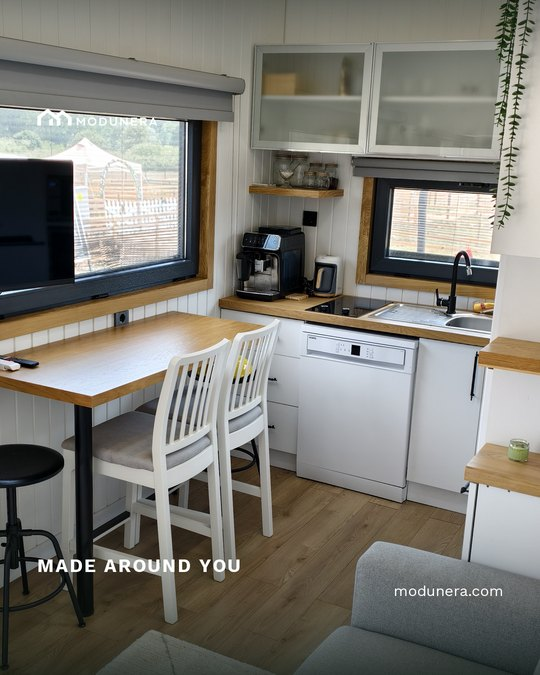
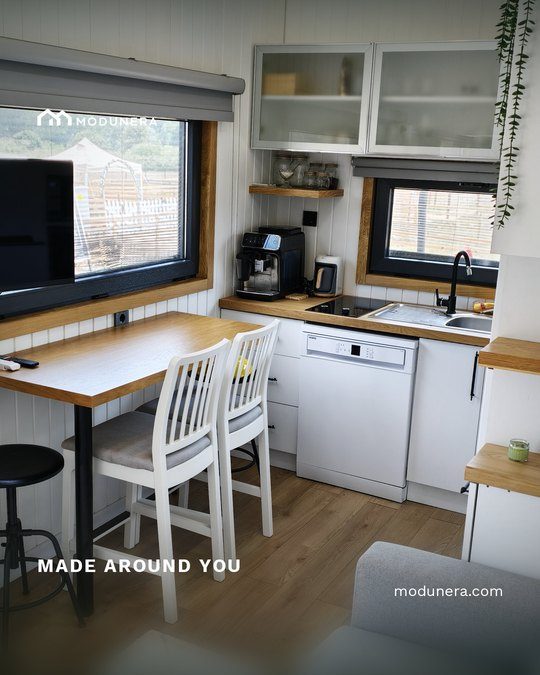
social: cull the weak frames, and one grade across the whole grid
Three photographs were removed after seeing them at grid scale. Copies only; the
originals in the shared folder are untouched.

  IMG_20250618_094223 — orange scaffolding dominated the frame and the house was
  the smallest thing in it. Replaced by 20231214_121220, a module in the workshop
  with its timber stacked at the foot.

  IMG_20260206_161331 — a grey unfinished terrace that reads as a building site
  rather than a product. Replaced by 20240227_113020, the loft stair and living
  space, which is what "space to breathe" actually means in a house this size.

  20231207_103831 — dim workshop, awkward pose, cluttered background. Replaced by
  IMG_20250913_183727, which earns its caption literally: a red steel frame in
  the foreground and a finished house behind it, from frame to finish in one
  frame.

Three further frames are held in 00-candidates as alternates rather than deleted.
They are good photographs this particular twelve had no room for.

Then one grade across all of them, because twelve photographs taken across three
years on two cameras do not read as one brand on their own:

  Grey-world white balance damped to 60%. Phone auto-white-balance drifts green
  under a workshop roof and blue in open shade, and that drift is what makes a
  feed look like snapshots. Damping keeps the warmth of evening light rather than
  neutralising it away.

  A soft S-curve anchored at both ends, so there is shadow structure without
  anything clipping.
[…]

diff --git a/tools/social/build_instagram_grid.py b/tools/social/build_instagram_grid.py
@@ -34,7 +34,9 @@ import json
 import sys
 from pathlib import Path
 
-from PIL import Image, ImageDraw, ImageFont
+import math
+
+from PIL import Image, ImageDraw, ImageEnhance, ImageFilter, ImageFont, ImageStat
 
 ROOT = Path(__file__).resolve().parents[2]
 SELECTED = ROOT / "social/instagram/01-selected"
@@ -101,6 +103,95 @@ def strip_camera_watermark(im: Image.Image) -> tuple[Image.Image, int]:
     if band < h * 0.01:
         return im, 0
     return im.crop((0, 0, w, h - band)), band
+
+
+
+def _curve(lut_fn) -> list[int]:
+    return [max(0, min(255, round(lut_fn(v / 255) * 255))) for v in range(256)]
+
+
+def grade(im: Image.Image, *, warmth: float = 1.0, lift: float = 0.0,
+          contrast: float = 1.0, saturation: float = 1.0) -> Image.Image:
+    """One grade across the whole grid, so twelve phone photographs taken in three
+    years on two cameras read as one brand rather than as an album.
+
+    Four moves, all gentle, none of them a filter:
+
+      1. Grey-world white balance, damped. Phone auto-white-balance drifts green
+         under a workshop roof and blue in open shade; the drift is what makes a
+         feed look like snapshots. Correction is pulled only 60% of the way to
+         neutral so the warmth of evening light survives.
+      2. A soft S-curve. Adds the depth a flat phone JPEG lacks. The curve is
+         anchored at both ends, so nothing clips to pure black or pure white.
+      3. Saturation pulled slightly down. Phone JPEGs oversaturate greens; the
+         palette this brand uses is muted, and the photographs have to sit next to
+         moss and sage without shouting.
+      4. A wide, shallow vignette. Two stops at the extreme corner, nothing
+         anywhere the eye actually reads.
+
+    Deliberately not done: HDR tone mapping, clarity, local contrast, sky
+    replacement, colour-popping. The brief rules those out and they are what makes
+    a manufacturer's feed look like a stock library.
+    """
+    im = im.convert("RGB")
+
+    # 1. white balance
+    stat = ImageStat.Stat(im)
+    r, g, b = stat.mean
+    grey = (r + g + b) / 3
+    damp = 0.6
+    scale = [1 + damp * ((grey / c) - 1) if c > 4 else 1 for c in (r, g, b)]
+    scale[0] *= warmth          # a touch of warmth is a brand decision, not a fix
+    scale[2] /= warmth
+    im = im.point(_curve(lambda v: v * scale[0]) + _curve(lambda v: v * scale[1])
+                  + _curve(lambda v: v * scale[2]))
+
+    # 2. the S-curve, plus any shadow lift the photograph needs
+    def s(v: float) -> float:
+        v = v + lift * (1 - v) ** 2.2
+        v = v + (contrast - 1) * 0.5 * math.sin(2 * math.pi * (v - 0.5)) / (2 * math.pi) * 4
+        return max(0.0, min(1.0, v))
+    lut = _curve(s)
+    im = im.point(lut * 3)
+
+    # 3. saturation
+    if saturation != 1.0:
+        im = ImageEnhance.Color(im).enhance(saturation)
+
+    # 4. vignette
+    w, h = im.size
+    small = 200
+    mask = Image.new("L", (small, small))
+    px = mask.load()
+    cx = cy = (small - 1) / 2
+    for y in range(small):
+        for x in range(small):
+            d = (((x - cx) / cx) ** 2 + ((y - cy) / cy) ** 2) ** 0.5
+            px[x, y] = int(max(0, min(1, (d - 0.62) / 0.75)) ** 1.7 * 74)
+    mask = mask.resize((w, h), Image.BILINEAR)
+    im.paste(Image.new("RGB", (w, h), (10, 18, 14)), (0, 0), mask)
+    return im
+
+
+def frosted_foot(im: Image.Image, height_ratio: float = 0.30) -> Image.Image:
+    """A graduated blur under the caption instead of a heavier dark bar.
+
+    A busy foot — decking planks, gravel, a steel frame — competes with type no
+    matter how dark the scrim is. Blurring it lets the caption sit on the
+    photograph rather than on a panel laid over it, and keeps the picture's
+    colour and light. The blur is graduated so there is no visible seam.
+    """
+    w, h = im.size
+    band = int(h * height_ratio)
+    strip = im.crop((0, h - band, w, h))
+    blurred = strip.filter(ImageFilter.GaussianBlur(radius=w / 46))
+    ramp = Image.new("L", (1, band))
+    for y in range(band):
+        t = y / max(band - 1, 1)
+        ramp.putpixel((0, y), int(255 * min(1.0, (t ** 1.7) * 1.15)))
+    out = im.copy()
+    out.paste(blurred, (0, h - band), ramp.resize((w, band), Image.BILINEAR))
+    return out
 
 
 def cover(im: Image.Image, w: int, h: int, focus: float = 0.5) -> Image.Image:
@@ -184,15 +275,19 @@ def tracked(draw: ImageDraw.ImageDraw, xy, text: str, f, fill, tracking: int = 0
     return x
 
 
-def photo_post(source: Path, title: str | None, focus: float) -> Image.Image:
+def photo_post(source: Path, title: str | None, focus: float, look: dict | None = None) -> Image.Image:
     im = Image.open(source).convert("RGB")
     im, band = strip_camera_watermark(im)
     canvas = cover(im, POST_W, POST_H, focus)
+    canvas = grade(canvas, **(look or {}))
     canvas = head_scrim(canvas)
     if title:
-        canvas = foot_scrim(canvas, height_ratio=0.36, strength=195)
+        # blur first, then darken: a blurred foot needs far less darkening, which
+        # is how the caption reads without a black bar across the picture
+        canvas = frosted_foot(canvas)
+        canvas = foot_scrim(canvas, height_ratio=0.34, strength=150)
     else:
-        canvas = foot_scrim(canvas, height_ratio=0.26, strength=130)
+        canvas = foot_scrim(canvas, height_ratio=0.26, strength=118)
     draw = ImageDraw.Draw(canvas)
     place_logo(canvas, light=True)
     if title:
@@ -234,18 +329,30 @@ def card_post(lines: list[str], ground: tuple[int, int, int], light_type: bool,
 # of strongest frames. Recorded here rather than silently swapped.
 POSTS = [
     dict(kind="photo", src="IMG_20250519_182528.jpg", title=None, focus=0.5,
-         note="substituted for IMG_20250519_182509.jpg (see comment)"),
+         look=dict(warmth=1.02, lift=0.03, contrast=1.16, saturation=0.94),
+         note="substituted for IMG_20250519_182509.jpg, which would not transfer"),
     dict(kind="cream", lines=["DESIGN", "YOUR", "NATURE"], size=96),
-    dict(kind="photo", src="IMG_20250618_094223.jpg", title="BUILT WITH PURPOSE", focus=0.5),
+    dict(kind="photo", src="20231214_121220.jpg", title="BUILT WITH PURPOSE", focus=0.24,
+         look=dict(warmth=0.99, lift=0.05, contrast=1.20, saturation=0.88),
+         note="replaced IMG_20250618_094223.jpg — scaffolding dominated the frame"),
     dict(kind="forest", lines=["TINY HOUSE", "MODULAR HOME", "STEEL STRUCTURE", "CUSTOM FURNITURE"], size=62),
-    dict(kind="photo", src="IMG_20250807_131955.jpg", title="MADE AROUND YOU", focus=0.42),
-    dict(kind="photo", src="IMG_20250913_193621.jpg", title="HOME, AFTER DARK", focus=0.45),
-    dict(kind="photo", src="IMG_20250913_104632.jpg", title="FROM TÜRKİYE TO EUROPE", focus=0.5),
+    dict(kind="photo", src="IMG_20250807_131955.jpg", title="MADE AROUND YOU", focus=0.42,
+         look=dict(warmth=1.01, lift=0.02, contrast=1.14, saturation=0.93)),
+    dict(kind="photo", src="IMG_20250913_193621.jpg", title="HOME, AFTER DARK", focus=0.45,
+         look=dict(warmth=1.04, lift=0.06, contrast=1.10, saturation=0.98)),
+    dict(kind="photo", src="IMG_20250913_104632.jpg", title="FROM TÜRKİYE TO EUROPE", focus=0.52,
+         look=dict(warmth=1.01, lift=0.02, contrast=1.18, saturation=0.90)),
     dict(kind="cream", lines=["DELIVERY", "ACROSS", "DE · NL · DK", "LU · CH"], size=72),
-    dict(kind="photo", src="IMG_20260206_161331.jpg", title="SPACE TO BREATHE", focus=0.5),
-    dict(kind="photo", src="20231207_103831.jpg", title="FROM FRAME TO FINISH", focus=0.5),
+    dict(kind="photo", src="20240227_113020.jpg", title="SPACE TO BREATHE", focus=0.66,
+         look=dict(warmth=1.02, lift=0.04, contrast=1.15, saturation=0.92),
+         note="replaced IMG_20260206_161331.jpg — an unfinished grey terrace"),
+    dict(kind="photo", src="IMG_20250913_183727.jpg", title="FROM FRAME TO FINISH", focus=0.5,
+         look=dict(warmth=1.01, lift=0.03, contrast=1.17, saturation=0.91),
+         note="replaced 20231207_103831.jpg — dim workshop, awkward pose. This frame "
+              "carries the caption literally: the steel frame in front, the finished house behind"),
     dict(kind="forest", lines=["MINIMAL.", "MODERN.", "NATURAL."], size=96),
-    dict(kind="photo", src="IMG_20250525_142713.jpg", title=None, focus=0.42),
+    dict(kind="photo", src="IMG_20250525_142713.jpg", title=None, focus=0.42,
+         look=dict(warmth=1.02, lift=0.03, contrast=1.15, saturation=0.93)),
 ]
 
 
@@ -256,7 +363,7 @@ def main() -> None:
     rendered, manifest = [], []
     for i, spec in enumerate(POSTS, start=1):
         if spec["kind"] == "photo":
-            img = photo_post(SELECTED / spec["src"], spec["title"], spec["focus"])
+            img = photo_post(SELECTED / spec["src"], spec["title"], spec["focus"], spec.get("look"))
             entry = {"post": i, "type": "photograph", "source": spec["src"],
                      "title": spec["title"], "watermark_band_removed_px": img.info.get("watermark_band_px", 0)}
             if spec.get("note"):

diff --git a/social/instagram/02-design-system/brand-rules.md b/social/instagram/02-design-system/brand-rules.md
@@ -134,24 +134,74 @@ source folder was moved, renamed, deleted or edited.
 |---|---|---|
 | 1 | A-frame and deck, no caption | `IMG_20250519_182528.jpg` |
 | 2 | Cream card — DESIGN YOUR NATURE | — |
-| 3 | Module under construction — BUILT WITH PURPOSE | `IMG_20250618_094223.jpg` |
+| 3 | Module in the workshop — BUILT WITH PURPOSE | `20231214_121220.jpg` |
 | 4 | Green card — the four services | — |
 | 5 | Interior, kitchen and desk — MADE AROUND YOU | `IMG_20250807_131955.jpg` |
 | 6 | Lit A-frame at dusk — HOME, AFTER DARK | `IMG_20250913_193621.jpg` |
 | 7 | Module on the trailer — FROM TÜRKİYE TO EUROPE | `IMG_20250913_104632.jpg` |
 | 8 | Cream card — DELIVERY ACROSS DE · NL · DK · LU · CH | — |
-| 9 | Covered terrace — SPACE TO BREATHE | `IMG_20260206_161331.jpg` |
-| 10 | Workshop, cutting timber — FROM FRAME TO FINISH | `20231207_103831.jpg` |
+| 9 | Loft stair and living space — SPACE TO BREATHE | `20240227_113020.jpg` |
+| 10 | Steel frame in front, finished house behind — FROM FRAME TO FINISH | `IMG_20250913_183727.jpg` |
 | 11 | Green card — MINIMAL. MODERN. NATURAL. | — |
 | 12 | A-frame on the lawn, no caption | `IMG_20250525_142713.jpg` |
 
-**One substitution.** The brief names `IMG_20250519_182509.jpg` for post 1. That
+### What was culled, and why
+
+Three frames were removed from `01-selected/` after seeing them at grid scale.
+Copies only — the originals in the shared folder are untouched.
+
+| Removed | Reason | Replaced by |
+|---|---|---|
+| `IMG_20250618_094223.jpg` | Orange scaffolding dominated the frame; the house was the smallest thing in it | `20231214_121220.jpg` |
+| `IMG_20260206_161331.jpg` | A grey unfinished terrace. Reads as a building site, not a product | `20240227_113020.jpg` |
+| `20231207_103831.jpg` | Dim workshop, awkward pose, cluttered background | `IMG_20250913_183727.jpg` |
+
+The third replacement earns its caption literally: a red steel frame in the
+foreground, a finished house behind it — *from frame to finish* in one frame.
+
+Three further frames are held in `00-candidates/` as alternates rather than
+deleted: `IMG_20250519_183120.jpg`, `20250126_192414.jpg`,
+`IMG_20250724_101400.jpg`. They are good photographs that this particular twelve
+had no room for.
+
+**One substitution.****One substitution.** The brief names `IMG_20250519_182509.jpg` for post 1. That
 file is 9.7 MB and would not transfer through the connector after four attempts.
 `IMG_20250519_182528.jpg` is used instead: the same building, the same deck, the
 same session, and also on the brief's own list of strongest frames. Swap it back
 by editing one line in `POSTS` if the original can be placed in `01-selected/`.
 
-## 8. What is deliberately not done yet
+## 8. Photographic treatment
+
+Twelve photographs taken across three years on two cameras will not read as one
+brand on their own. One grade is applied to all of them — the same four moves,
+with per-frame amounts, so the feed is cohesive without any frame looking
+processed.
+
+| Move | What it does | Why |
+|---|---|---|
+| Grey-world white balance, damped to 60% | Pulls the colour cast out | Phone auto-white-balance drifts green under a workshop roof and blue in open shade. That drift is what makes a feed look like snapshots. Damping to 60% keeps the warmth of evening light instead of neutralising it away |
+| Soft S-curve, anchored at both ends | Adds depth | A flat phone JPEG has no shadow structure. Anchoring means nothing clips to pure black or pure white |
+| Saturation 0.88–0.98 | Takes the shout out of the greens | Phone JPEGs oversaturate foliage, and these frames sit beside moss and sage |
+| Wide shallow vignette | Holds the eye in the frame | Two stops at the extreme corner and nothing where the eye actually reads |
+
+**Deliberately not done:** HDR tone mapping, clarity, local contrast, sky
+replacement, colour popping, skin smoothing, any preset. Those are what make a
+manufacturer's feed look like a stock library, and the brief rules them out.
+
+### The frosted foot
+
+Where a caption sits, the bottom 30% of the photograph is **graduated Gaussian
+blur** rather than a heavier dark bar. A busy foot — decking planks, gravel, a
+steel frame — competes with type no matter how dark a scrim is. Blurring it lets
+the caption sit *on* the photograph instead of on a panel laid over it, and keeps
+the picture's own colour and light. The blur ramps to zero so there is no seam,
+and the scrim over it drops from 195 to 150 because a blurred foot needs far less
+darkening.
+
+Posts without a caption get the scrim only, at 118 — just enough to carry
+`modunera.com`.
+
+## 9. What is deliberately not done yet
 
 - No high-resolution finals. Drafts render at 540 × 675; `--full` produces
   1080 × 1350 when the artwork is approved.
